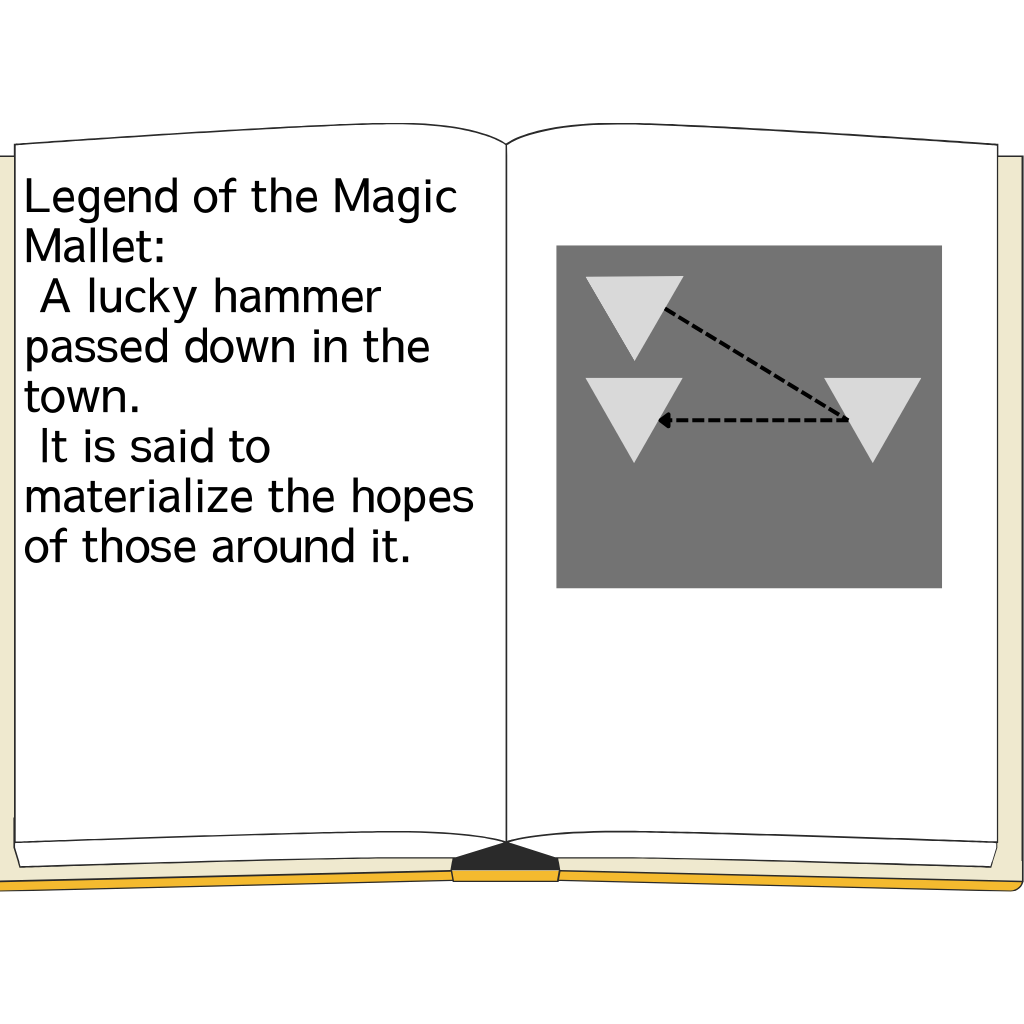
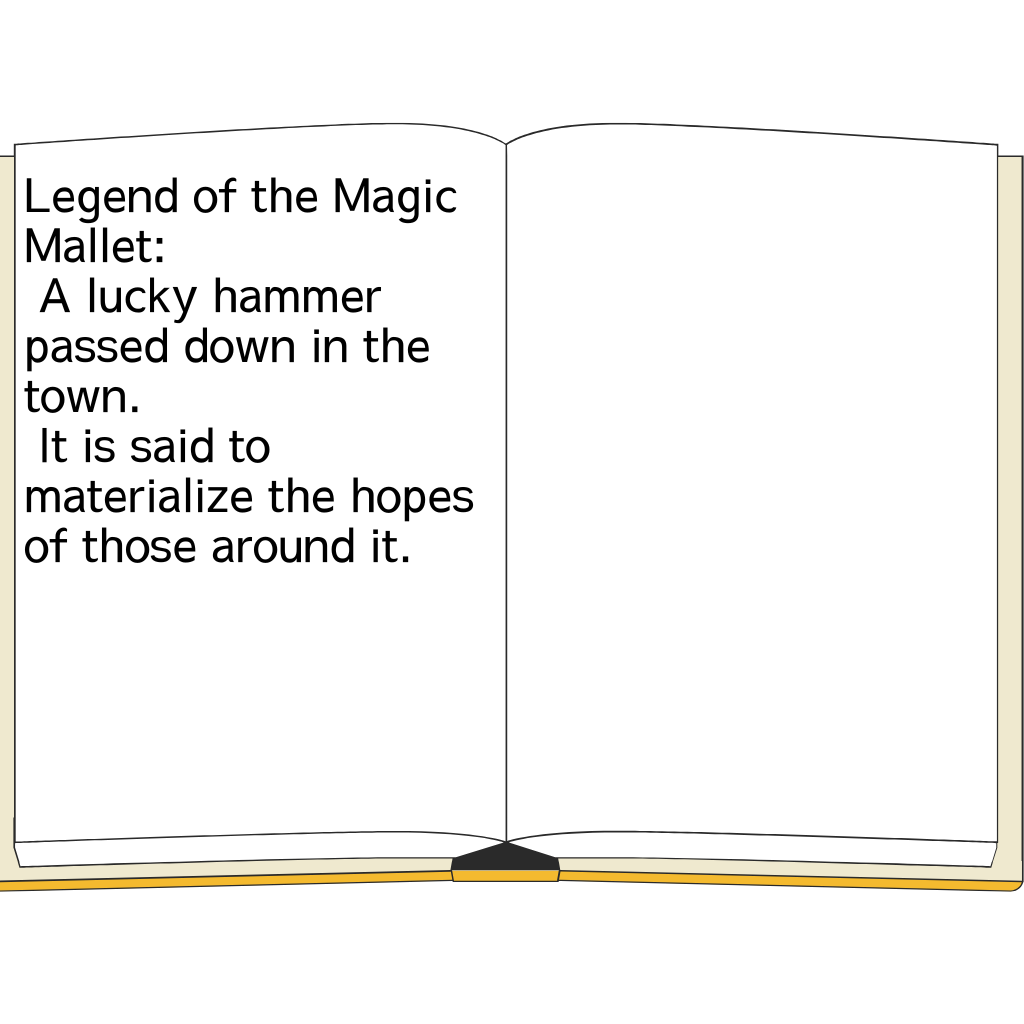
29 add

Changed region(s): [[0.5312, 0.2188, 0.9375, 0.5938]]

diff --git a/zxcvb.html b/zxcvb.html
@@ -1492,6 +1492,8 @@
                 bearOnigiri: 'images/29/bear_onigiri.png',
                 book: 'images/29/book.png',
                 lock: 'images/29/lock.png',
+                triSquare: 'images/29/tri_square.png',
+                lineOnigiri: 'images/29/line_onigiri.png',
 
 
 
@@ -2463,6 +2465,16 @@
                         zIndex: 5,
                         usable: () => !gameState.main.flags.foundGemGreen,
                         item: { img: 'gemGreen', visible: () => !gameState.main.flags.foundGemGreen }
+                    },
+                    {
+                        x: 18.8, y: 52.8, width: 24.1, height: 21.2,
+                        onClick: clickWrap(function () {
+
+                        }),
+                        description: '模様',
+                        zIndex: 5,
+                        usable: () => false,
+                        item: { img: 'triSquare', visible: () => true }
                     },
                     {
                         x: 90, y: 90, width: 10, height: 10,
@@ -3489,20 +3501,12 @@
                 if (f.setKeyRevealed) {
                     const cx = canvas.width * 0.5;
                     const cy = canvas.height * 0.72;
-                    ctx.save();
-                    ctx.textAlign = 'center';
-                    ctx.textBaseline = 'middle';
-                    ctx.lineWidth = 4;
-                    ctx.strokeStyle = 'rgba(0,0,0,0.75)';
-                    ctx.fillStyle = '#fff4c4';
-                    const fontSize = Math.max(16, Math.min(28, Math.floor(canvas.height * 0.045)));
-                    ctx.font = `bold ${fontSize}px Arial`;
-                    ctx.strokeText('↑↓↓←↓', cx, cy);
-                    ctx.fillText('↑↓↓←↓', cx, cy);
-                    // ctx.font = `bold ${Math.max(12, Math.floor(fontSize * 0.7))}px Arial`;
-                    // ctx.strokeText('The secret spell is ume', cx, cy + fontSize * 0.9);
-                    // ctx.fillText('The secret spell is ume', cx, cy + fontSize * 0.9);
-                    ctx.restore();
+                    const lineImg = loadedImages[IMAGES.items.lineOnigiri];
+                    if (lineImg && lineImg.complete) {
+                        const targetW = Math.max(360, Math.min(canvas.width * 0.78, 780));
+                        const targetH = targetW * (lineImg.naturalHeight / lineImg.naturalWidth);
+                        ctx.drawImage(lineImg, cx - targetW / 2, cy - targetH / 2, targetW, targetH);
+                    }
                 }
             }
 
